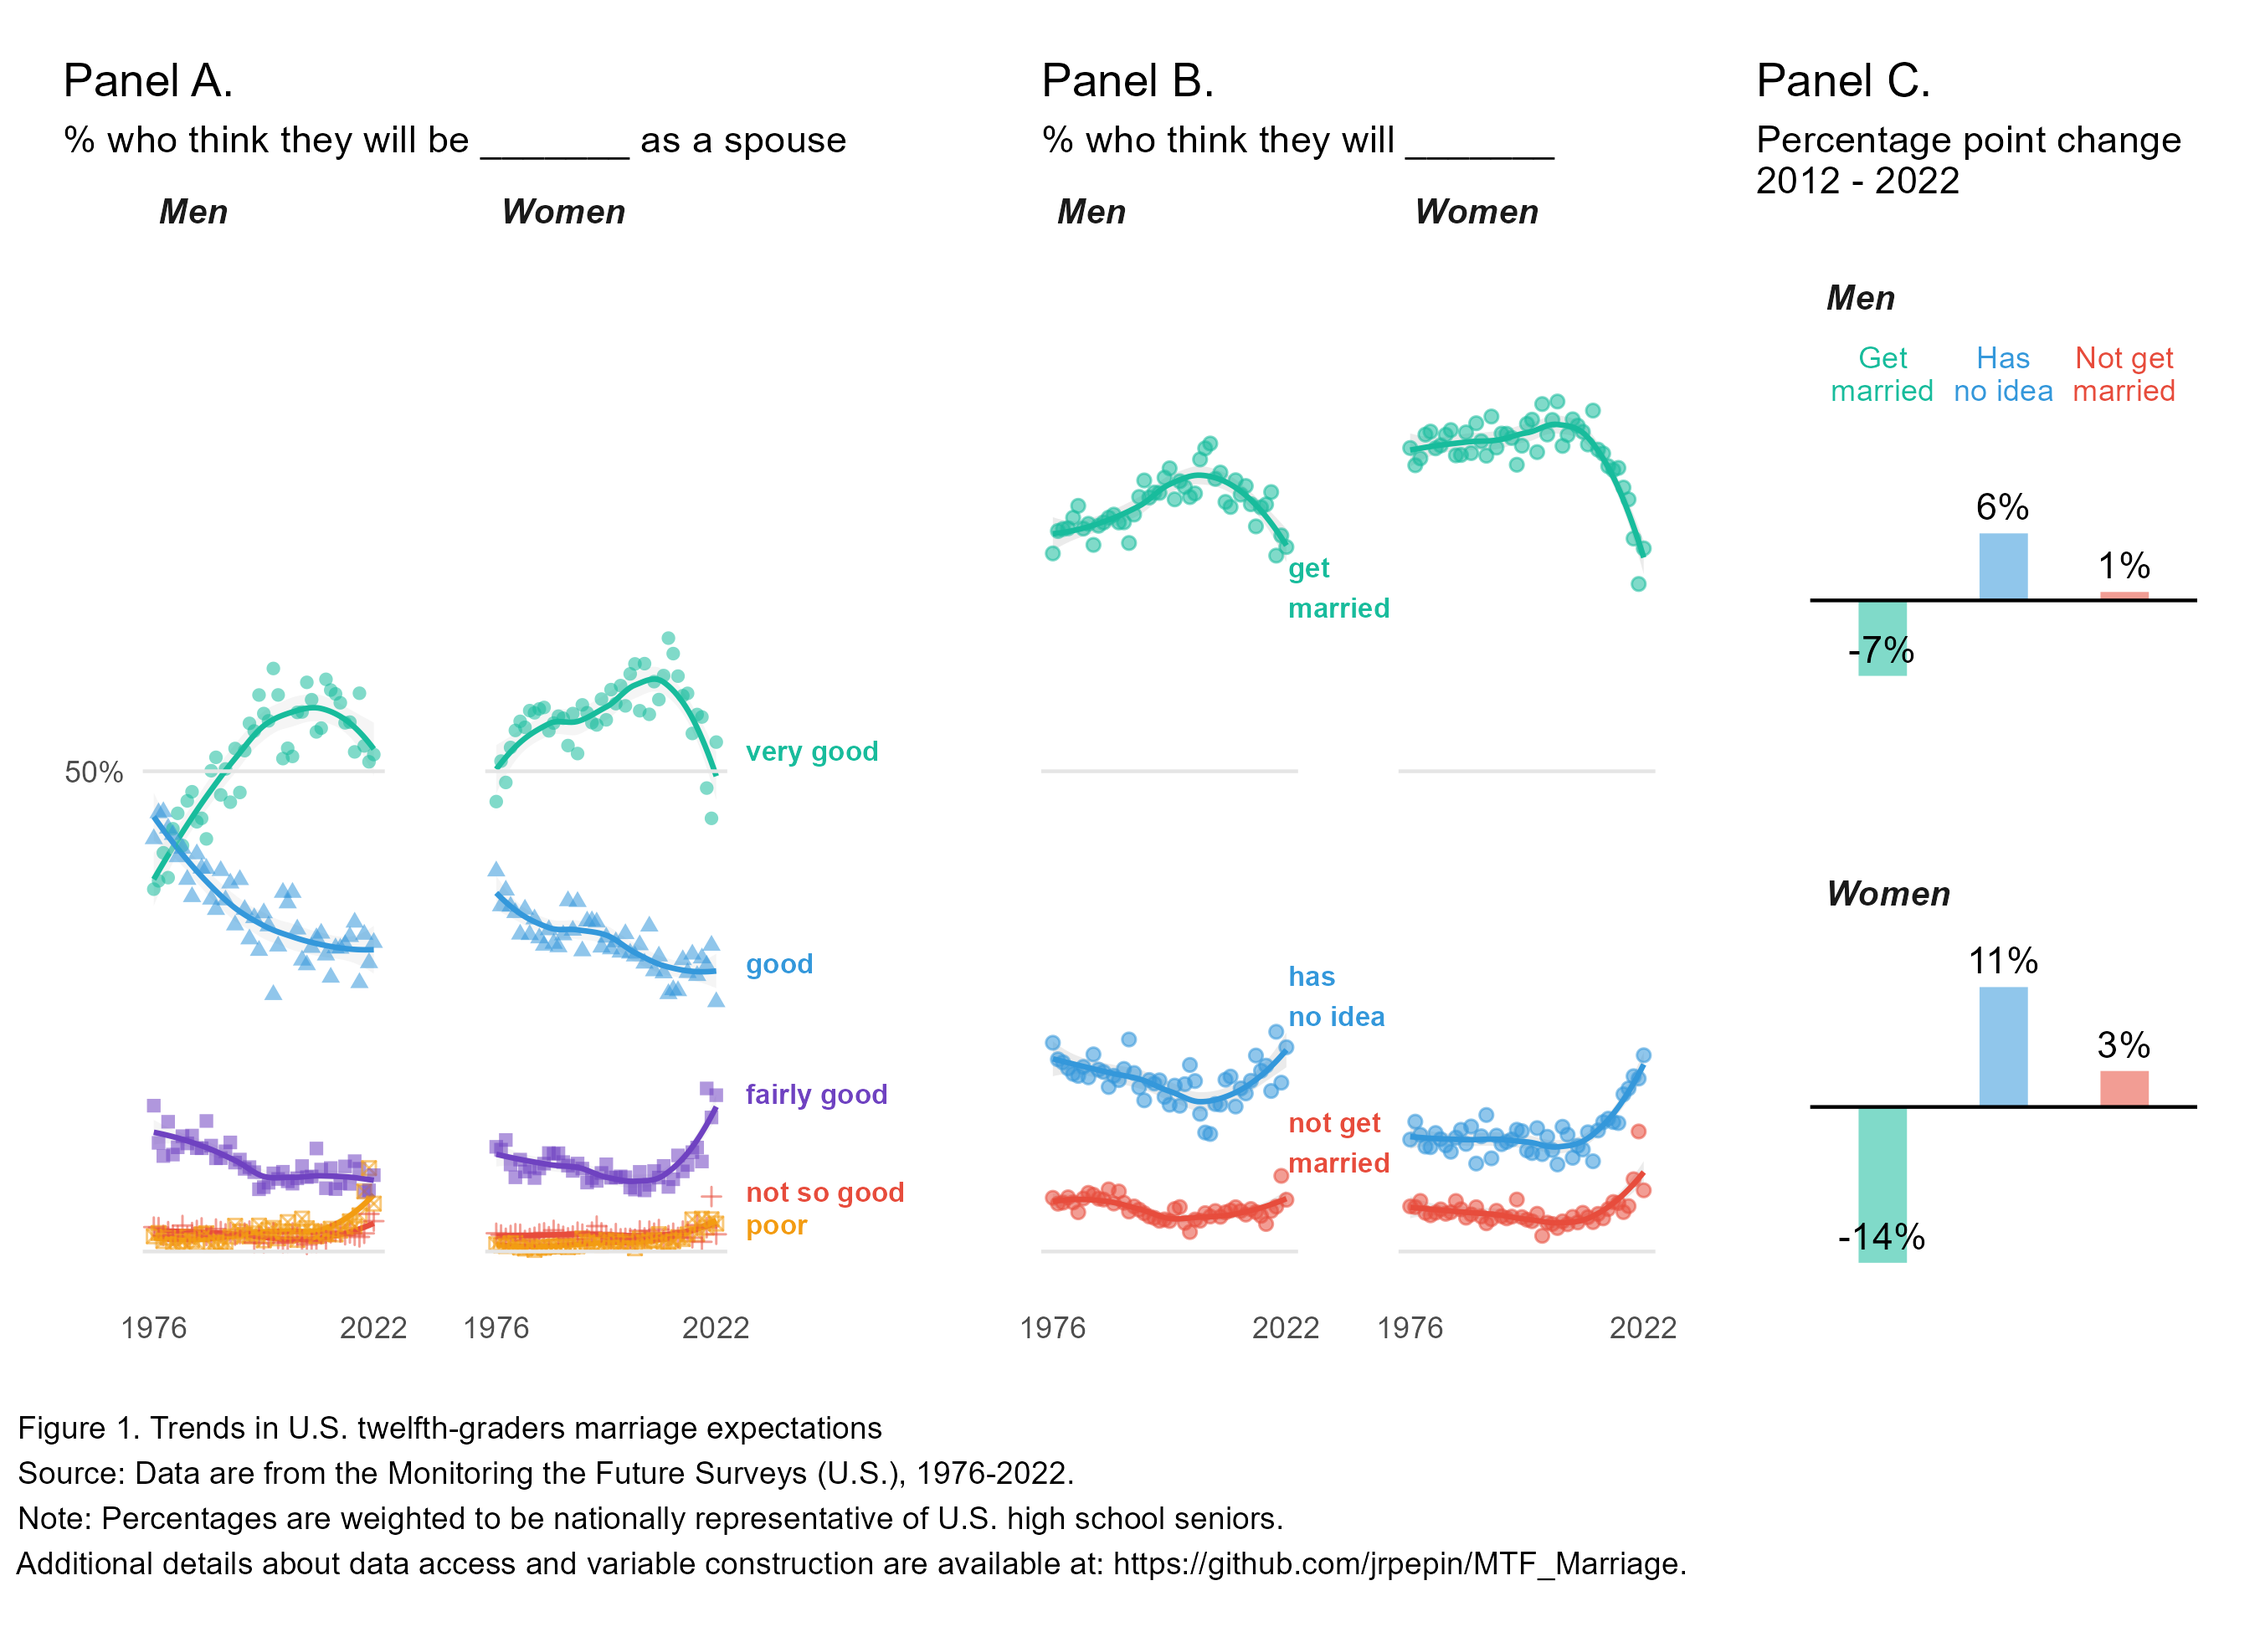
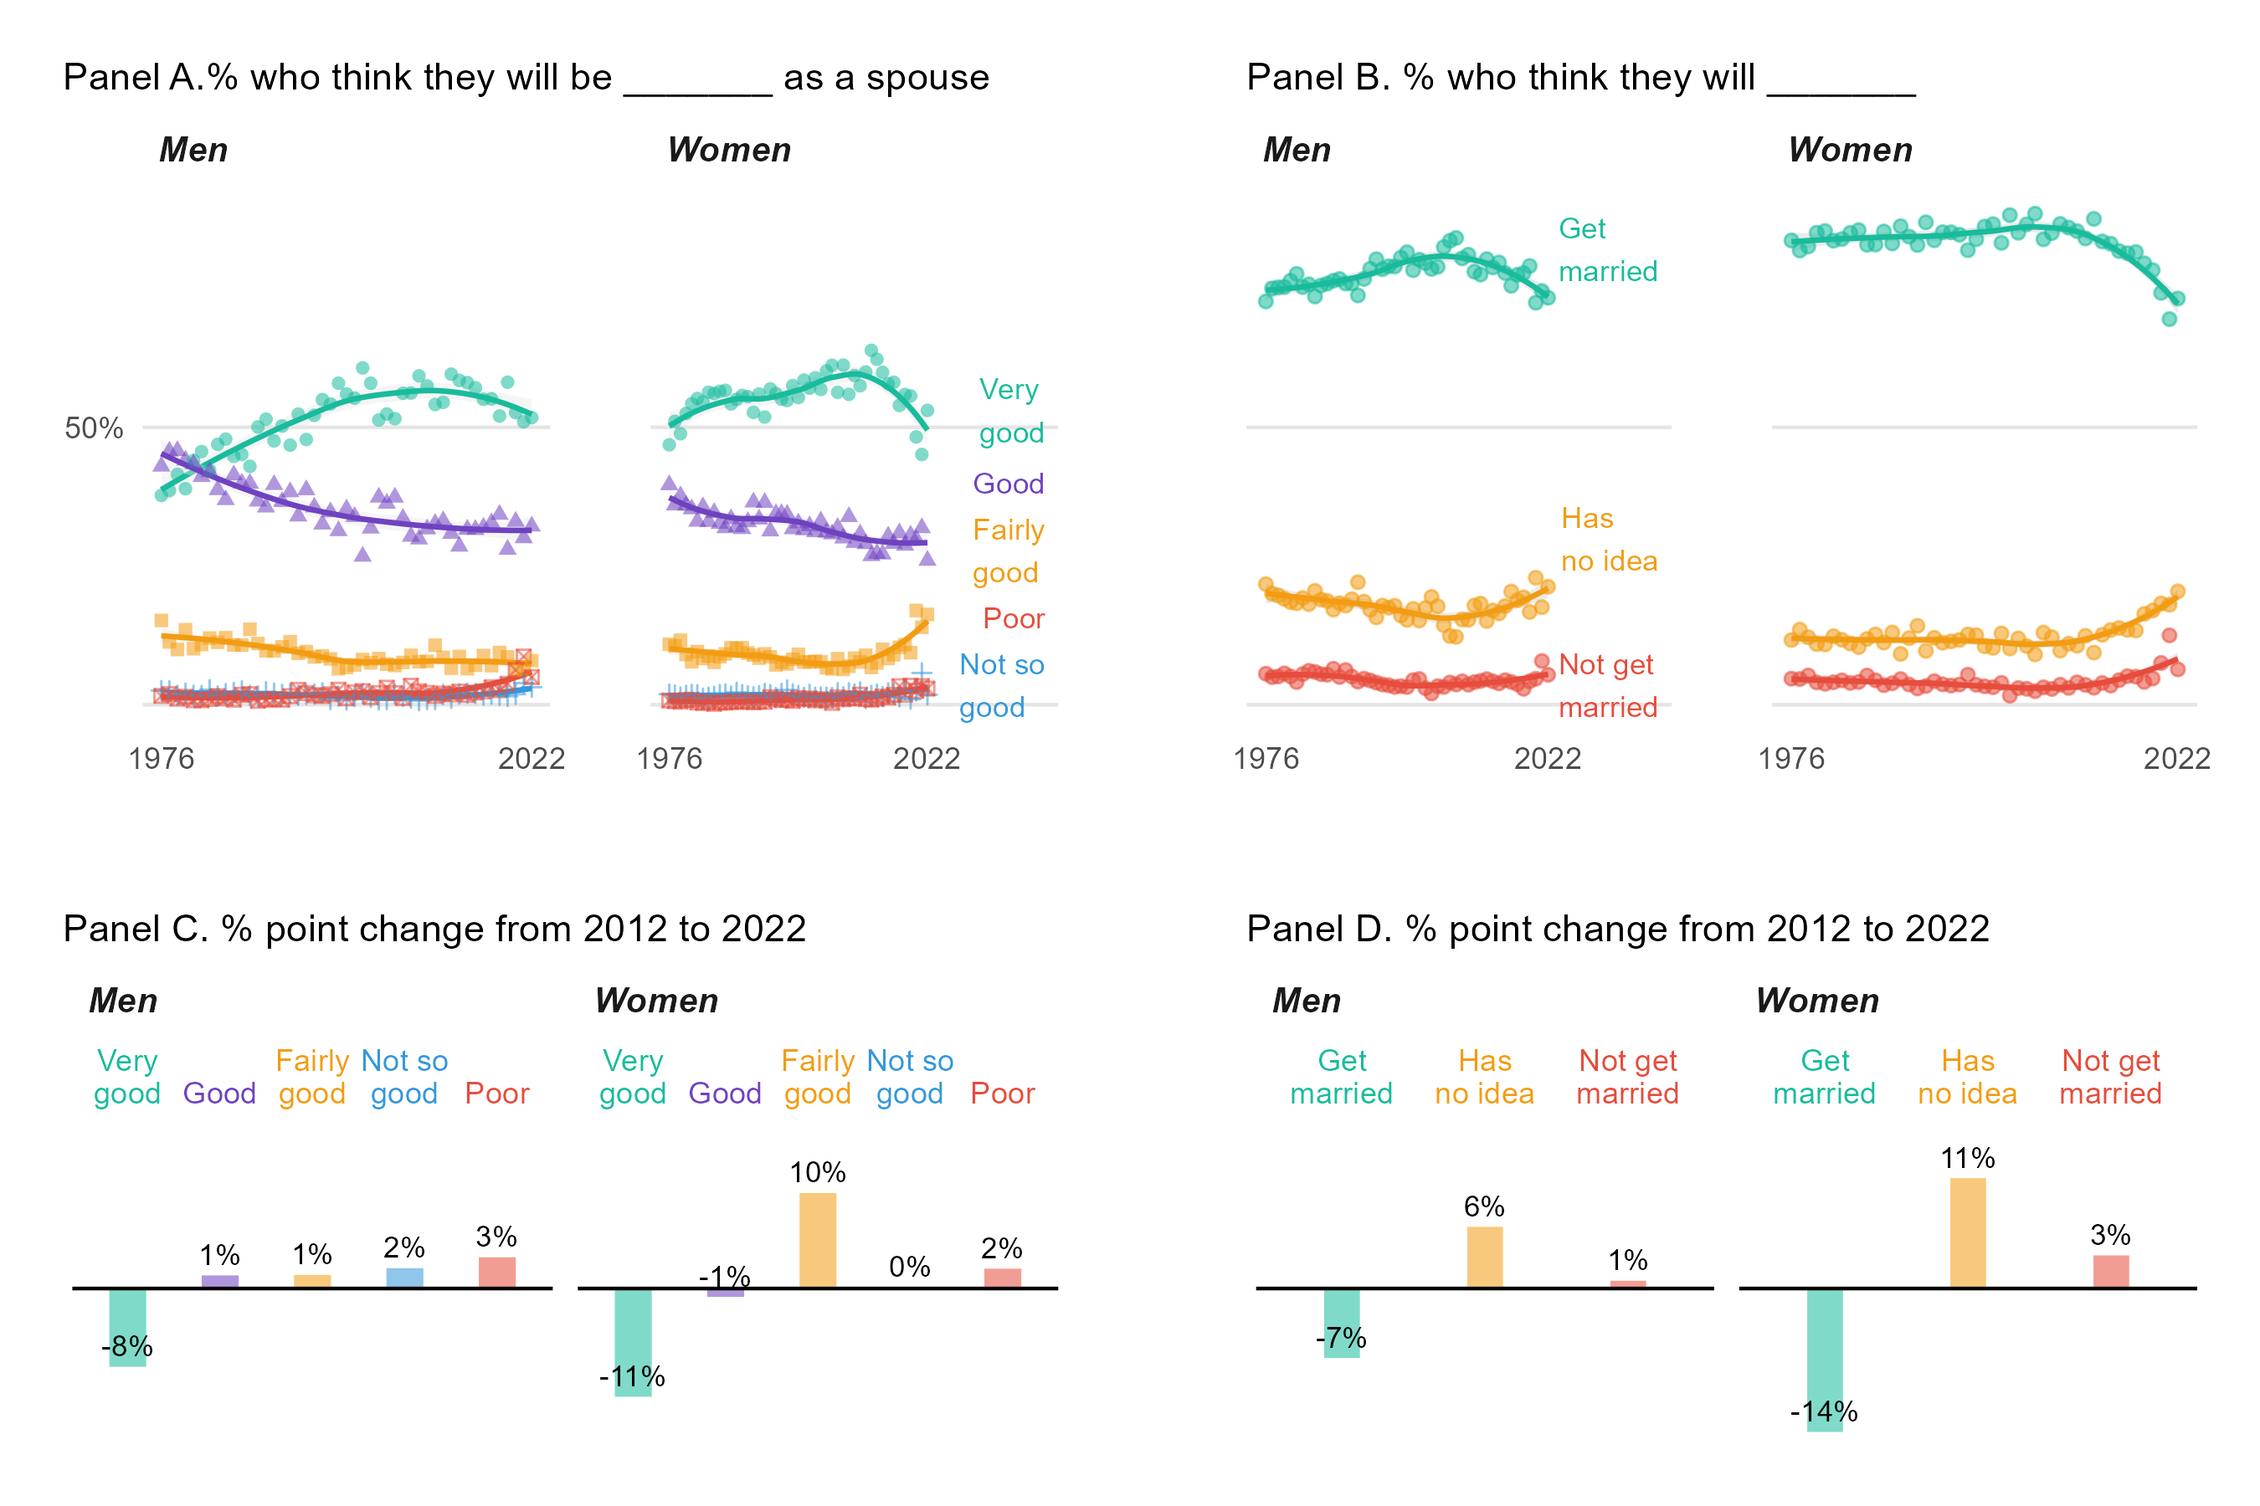
revising figure

diff --git a/README.md b/README.md
@@ -1,6 +1,6 @@
 # Growing Uncertainty in Marriage Expectations Among U.S. Youth
 
-This repository analyzes data from the [Monitoring the Future (MTF) Public-Use Cross-Sectional Datasets (1976-2022)](https://www.icpsr.umich.edu/web/ICPSR/series/35). It creates a visualization of trends in U.S. twelfth graders marriage expectations by gender, racial group, and mothers' education.
+This repository analyzes data from the [Monitoring the Future (MTF) Public-Use Cross-Sectional Datasets (1976-2022)](https://www.icpsr.umich.edu/web/ICPSR/series/35). It creates a visualization of trends in U.S. twelfth graders marriage expectations.
 
 ![Figure of U.S. twelfth graders marriage expectations](https://github.com/jrpepin/MTF_Marriage/blob/main/marfig.png)
 
